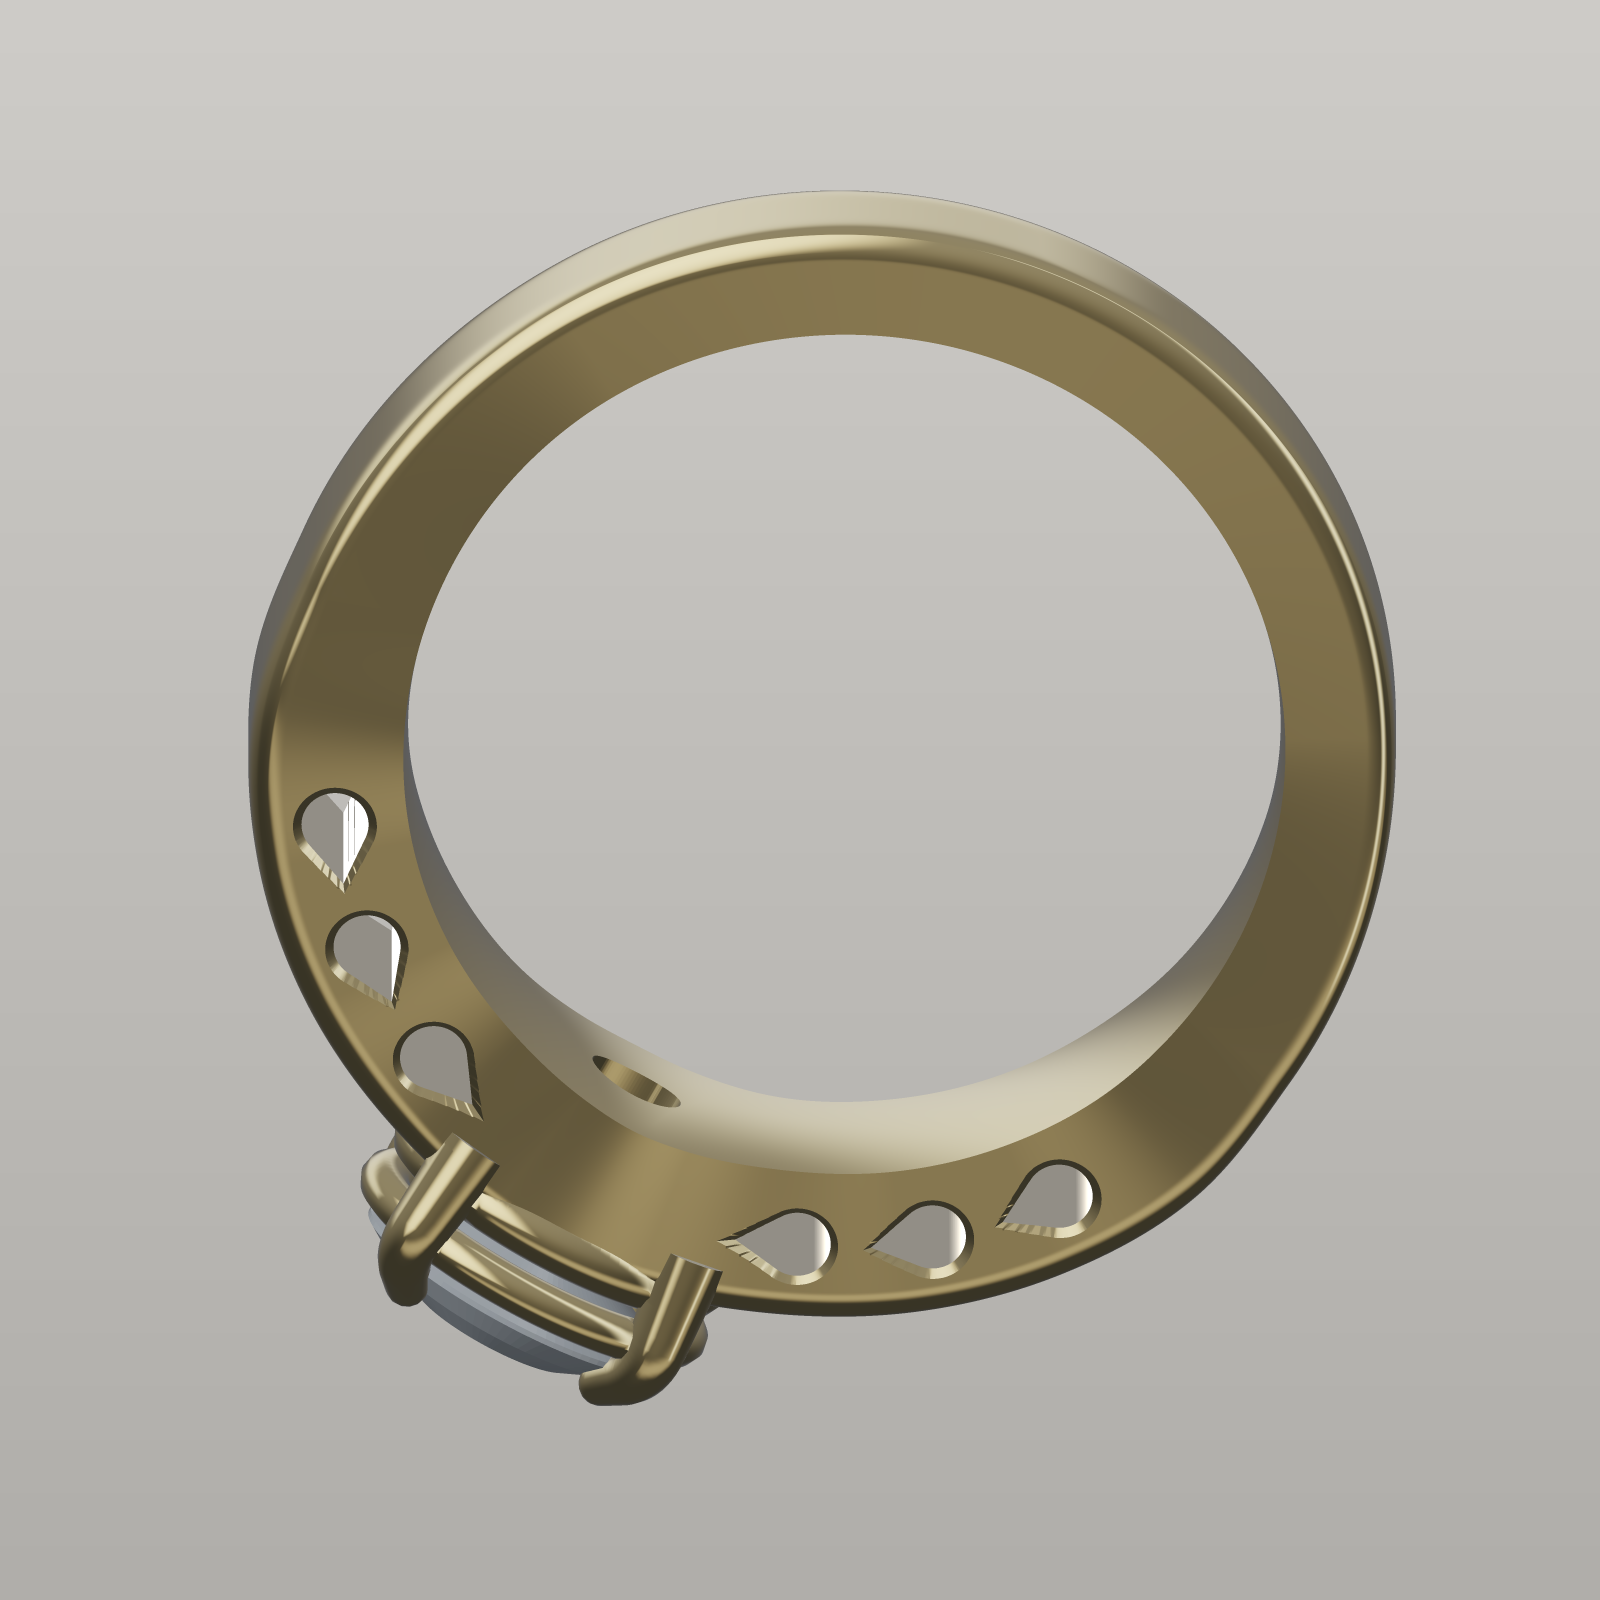
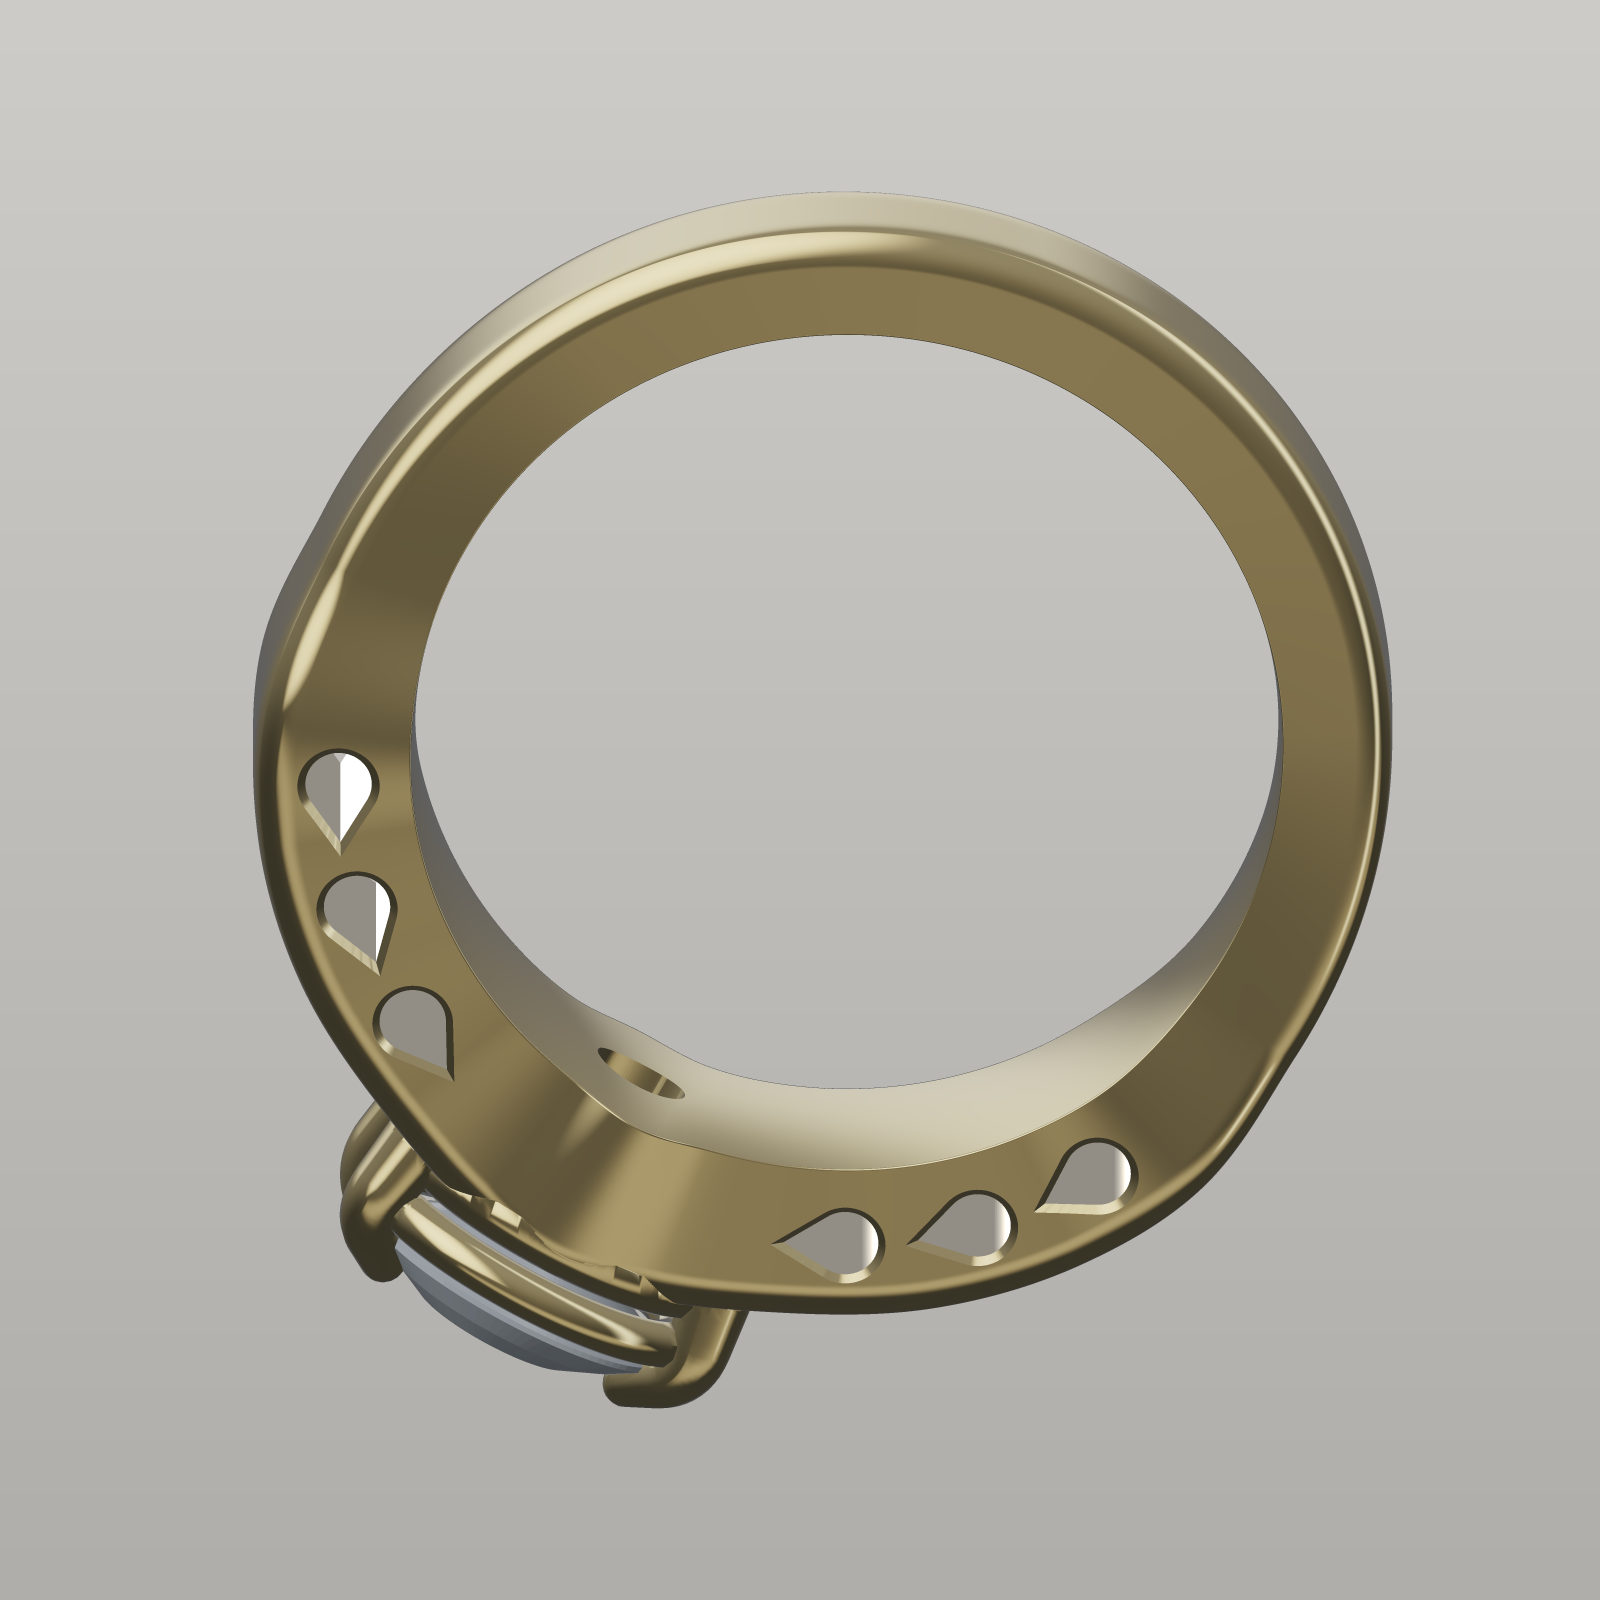
Fenestra round 2: flared collar shoulders, paired-claw basket head, framed close-ups
Merged master (crisp-edge renders). The swell now reaches 1.88 x at the head with
a raised collar the basket is set into; windows at 63/48/33 deg on square side
faces; the basket head and seat bur are bench work and the investment floor is
measured on the poured shank; timeline camera shows the bur's pilot.

Claude-Session: https://claude.ai/code/session_01SAH8Q8Lnp1vP1aWijJTkAH

diff --git a/crates/ringdesign-core/examples/officina_fenestra.rs b/crates/ringdesign-core/examples/officina_fenestra.rs
@@ -21,7 +21,7 @@ use ringdesign_core::{
     stl,
 };
 use serde_json::json;
-use std::f64::consts::{FRAC_PI_2, PI};
+use std::f64::consts::PI;
 use std::path::{Path, PathBuf};
 
 const BORE_MM: f64 = 18.2;
@@ -31,13 +31,13 @@ const THICKNESS_MM: f64 = 2.4;
 /// under the basket, then one steady width down the shoulders, so every window in the array meets square side faces at the
 /// same height as the first, and narrowing to the band's own at the sides; the thickness stands tall down the shoulders, where
 /// the windows go, and falls back to the palm.
-const SWELL: &[(f64, f64, f64)] = &[(90.0, 1.66, 1.50), (82.0, 1.56, 1.49), (70.0, 1.38, 1.47), (55.0, 1.38, 1.45), (40.0, 1.38, 1.42), (25.0, 1.38, 1.36), (10.0, 1.25, 1.18), (-30.0, 1.0, 1.0)];
+const SWELL: &[(f64, f64, f64)] = &[(90.0, 1.88, 1.72), (80.0, 1.6, 1.64), (68.0, 1.56, 1.52), (53.0, 1.56, 1.50), (38.0, 1.56, 1.46), (24.0, 1.54, 1.38), (8.0, 1.2, 1.14), (-30.0, 1.0, 1.0)];
 const ALLOY: &str = "Gold 18k";
 /// The stone: an oval 7 × 5 laid along the ring.
 const STONE_L_MM: f64 = 7.0;
 const STONE_W_MM: f64 = 5.0;
 /// The first window's centre, degrees round the ring (90 is the head); the array steps down the shoulder from it.
-const FIRST_WINDOW_DEG: f64 = 68.0;
+const FIRST_WINDOW_DEG: f64 = 63.0;
 /// Windows down each shoulder and the angle they step by.
 const WINDOWS: u32 = 3;
 const WINDOW_STEP_DEG: f64 = 15.0;
@@ -47,10 +47,13 @@ const WINDOW_W_MM: f64 = 1.4;
 const WINDOW_CHAMFER_MM: f64 = 0.15;
 /// Which way the drop's point turns in the window's plane, degrees: 180 points it up the shoulder at the head.
 const WINDOW_TURN_DEG: f64 = 180.0;
-/// How far the stone sits below the basket's own stand-off, its pavilion down in the seat the bur cuts, mm.
-const STONE_SINK_MM: f64 = 0.6;
+/// How far the stone sits below the basket's own stand-off, so the base rail is sunk into the collar and the claws rise out of
+/// metal, mm.
+const STONE_SINK_MM: f64 = 0.9;
+/// The band's edge round, which rolls the light off every arris, mm.
+const EDGE_ROUND_MM: f64 = 0.45;
 /// The basket's claw and rail wire, mm.
-const WIRE_MM: f64 = 1.3;
+const WIRE_MM: f64 = 1.4;
 /// Least metal the investment fills, mm.
 const MIN_SECTION_MM: f64 = 0.8;
 
@@ -95,7 +98,7 @@ fn band() -> RingDesign {
     d.profile.width_mm = WIDTH_MM;
     d.profile.thickness_mm = THICKNESS_MM;
     d.profile.flatten_sides();
-    d.profile.edge_round_mm = 0.3;
+    d.profile.edge_round_mm = EDGE_ROUND_MM;
     d.profile.comfort_fit_mm = 0.1;
     d.shank.kind = ShankKind::Keyframes;
     d.shank.amount = 1.0;
@@ -133,7 +136,11 @@ fn author() -> Result<RingDesign> {
     let g = gem();
     let at = Placement::ring(90.0, builders::stand_off_mm("basket", g) - STONE_SINK_MM);
     doc.append(named(builders::stone_feature(2, g, at), "Oval 7 × 5, laid along the ring"))?;
-    doc.append(builders::feature_on(3, "Basket: four claws tied by two rails", builders::BASKET, 2, json!({"prongs": 4, "rails": 2, "wire_mm": WIRE_MM})))?;
+    let mut basket = builders::feature_on(3, "Basket head: four claws paired at the ends, two rails, set into the collar", builders::BASKET, 2, json!({"prongs": 4, "rails": 2, "wire_mm": WIRE_MM, "grouping": "Jaws"}));
+    // A made basket head, soldered to the cast shank at the bench and set there: its claws are notched for the girdle, finer
+    // than the investment's section, so it is not poured with the shank.
+    basket.component.stage = cad::Stage::Bench;
+    doc.append(basket)?;
     // The seat is cut with a bur at the bench once the ring is cast, as it is when the stone is set: it notches the claws and
     // opens the pilot to the finger, so the pour fills the claws whole.
     let mut bur = builders::feature_on(4, "Seat bur, through to the finger, cut at the bench", builders::BUR, 2, json!({"through": true}));
@@ -202,12 +209,18 @@ fn solid_of(m: &mesh::Mesh) -> csg::Solid {
 /// Views: yaw about the finger axis, pitch from looking along the finger (0) to down onto the head (pi/2).
 const VIEWS: &[(&str, f64, f64)] = &[
     ("hero", -0.7, 0.5),
-    ("face", 0.0, FRAC_PI_2),
+    ("face", 0.0, FACE_PITCH),
     ("palm", PI, 1.05),
     ("side", 0.0, 0.0),
     ("shoulder", 0.0, 0.35),
     ("reverse", PI - 0.5, 0.35),
 ];
+
+/// The face view, tipped a little off square so the near side face's windows show beside the head.
+const FACE_PITCH: f64 = 1.25;
+/// The timeline's camera: three-quarters from a little under the band, so it sees the seat bur's pilot in the bore as well as
+/// the windows in the side face.
+const TIMELINE_VIEW: (f64, f64) = (-0.75, -0.32);
 
 /// The stones close-up: the head and the top windows from a three-quarter view.
 const STONES_VIEW: (f64, f64) = (-0.45, 0.7);
@@ -227,46 +240,22 @@ fn side_by_side(path: &Path, left: &[u8], right: &[u8], edge: usize) -> Result<(
     Ok(())
 }
 
-/// `m` with every corner whose smooth normal leans more than 35° off its face shaded by the face's own normal instead, so
-/// a cut's edge renders as the crisp arris it is rather than a saw of blended normals.
-fn crisp(m: &mesh::Mesh) -> mesh::Mesh {
-    let mut out = m.clone();
-    let have: std::collections::HashMap<u32, [mesh::Vec3; 3]> = m.corner_normals.iter().copied().collect();
-    let mut corners = Vec::new();
-    for (i, f) in m.faces.iter().enumerate() {
-        let Some((a, b, c)) = m.triangle(f) else { continue };
-        let (u, v) = ([b[0] - a[0], b[1] - a[1], b[2] - a[2]], [c[0] - a[0], c[1] - a[1], c[2] - a[2]]);
-        let n = [u[1] * v[2] - u[2] * v[1], u[2] * v[0] - u[0] * v[2], u[0] * v[1] - u[1] * v[0]];
-        let l = (n[0] * n[0] + n[1] * n[1] + n[2] * n[2]).sqrt();
-        if l < 1e-12 {
-            continue;
-        }
-        let fn_ = mesh::Vec3((n[0] / l) as f32, (n[1] / l) as f32, (n[2] / l) as f32);
-        let mut cn = have.get(&(i as u32)).copied().unwrap_or_else(|| f.map(|k| m.normals[k as usize]));
-        let mut changed = false;
-        for c in cn.iter_mut() {
-            let d = c.0 * fn_.0 + c.1 * fn_.1 + c.2 * fn_.2;
-            if d < 0.819 {
-                *c = fn_;
-                changed = true;
-            }
-        }
-        if changed || have.contains_key(&(i as u32)) {
-            corners.push((i as u32, cn));
-        }
-    }
-    out.corner_normals = corners;
-    out
-}
-
 /// The renderer's empty background, which [`shot`] replaces with the studio's daylight backdrop.
 const VOID: u8 = 18;
 
 /// A supersampled frame on a light backdrop, so the windows show daylight through them: the parts drawn at `ss` times the
 /// size, every untouched pixel given the backdrop's soft top-to-bottom fall, then box-filtered down.
 fn shot(parts: &[render::Part], yaw: f64, pitch: f64, w: usize, h: usize, ss: usize) -> Vec<u8> {
+    shot_framed(parts, yaw, pitch, None, w, h, ss)
+}
+
+/// [`shot`] framed on a point, the whole ring drawn.
+fn shot_framed(parts: &[render::Part], yaw: f64, pitch: f64, framing: Option<render::Framing>, w: usize, h: usize, ss: usize) -> Vec<u8> {
     let (bw, bh) = (w * ss, h * ss);
-    let mut big = render::render_parts_ss(parts, yaw, pitch, bw, bh, 1);
+    let mut big = match framing {
+        Some(f) => render::render_parts_framed(parts, yaw, pitch, f, bw, bh, 1),
+        None => render::render_parts_ss(parts, yaw, pitch, bw, bh, 1),
+    };
     for y in 0..bh {
         let t = y as f64 / (bh - 1).max(1) as f64;
         let grey = [206.0 - 30.0 * t, 204.0 - 30.0 * t, 200.0 - 30.0 * t];
@@ -335,12 +324,12 @@ fn timeline(out: &Path, d: &RingDesign, lib: &AlphaLibrary) -> Result<()> {
     let rows = doc.features.len().div_ceil(cols);
     let (w, h) = (tile * cols, tile * rows);
     let mut sheet = vec![200u8; w * h * 3];
-    let (yaw, pitch) = view("hero");
+    let (yaw, pitch) = TIMELINE_VIEW;
     for (k, f) in doc.features.iter().enumerate() {
         let mut step = d.clone();
         step.cad.as_mut().unwrap().through = Some(f.id);
         let fin = render::finished(&step, lib, draft_params())?;
-        let (bright, dark) = window_walls(&crisp(&fin.metal));
+        let (bright, dark) = window_walls(&fin.metal);
         let img = shot(&dressed(&bright, &dark, &fin), yaw, pitch, tile, tile, 2);
         let (cx, cy) = (k % cols * tile, k / cols * tile);
         for y in 0..tile {
@@ -394,7 +383,7 @@ fn dressed<'a>(bright: &'a mesh::Mesh, dark: &'a mesh::Mesh, fin: &'a render::Fi
 }
 
 fn renders(out: &Path, lib: &AlphaLibrary, fin: &render::Finished, edge: usize) -> Result<()> {
-    let (bright, dark) = window_walls(&crisp(&fin.metal));
+    let (bright, dark) = window_walls(&fin.metal);
     if std::env::var("FENESTRA_DEBUG").is_ok() {
         let parted = fin.metal.origin.iter().filter(|&&o| o >= mesh::SOLID_VERTEX).count();
         println!("    window walls: {} faces of {}; {} of {} vertices from parts", dark.faces.len(), fin.metal.faces.len(), parted, fin.metal.origin.len());
@@ -414,27 +403,16 @@ fn renders(out: &Path, lib: &AlphaLibrary, fin: &render::Finished, edge: usize) 
         save(&out.join(format!("{name}-300.png")), &parts, yaw, pitch, 300)?;
     }
     // Stones: the head and the first windows, framed on the metal within 35° of the top.
-    // Stones: the whole ring drawn at 2.4 times the size, then cut to the frame round the stone, which a red stand-in finds.
-    let big = (edge as f64 * 2.4) as usize;
-    let img = shot(&parts, STONES_VIEW.0, STONES_VIEW.1, big, big, 2);
-    let mut marked = vec![render::Part::metal(&bright, render::GOLD), backlit(&dark)];
-    marked.extend(fin.stones.iter().map(|(m, _)| render::Part::tinted_stone(m, [1.0, 0.0, 0.0])));
-    let mask = render::render_parts_ss(&marked, STONES_VIEW.0, STONES_VIEW.1, big, big, 1);
-    let (mut sx, mut sy, mut n) = (0usize, 0usize, 0usize);
-    for y in 0..big {
-        for x in 0..big {
-            let k = (y * big + x) * 3;
-            if mask[k] > 120 && mask[k + 1] < 60 && mask[k + 2] < 60 {
-                (sx, sy, n) = (sx + x, sy + y, n + 1);
-            }
+    // Stones: the whole ring framed on the stone, so the head and the top windows fill the picture.
+    let (mut c, mut n) = ([0.0f64; 3], 0usize);
+    for (m, _) in &fin.stones {
+        for v in &m.vertices {
+            c = [c[0] + v.0 as f64, c[1] + v.1 as f64, c[2] + v.2 as f64];
+            n += 1;
         }
     }
-    let (cx, cy) = if n > 0 { (sx / n, sy / n) } else { (big / 2, big / 2) };
-    let (x0, y0) = (cx.saturating_sub(edge / 2).min(big - edge), (cy + edge / 10).saturating_sub(edge / 2).min(big - edge));
-    let mut close = vec![0u8; edge * edge * 3];
-    for y in 0..edge {
-        close[y * edge * 3..(y + 1) * edge * 3].copy_from_slice(&img[((y0 + y) * big + x0) * 3..((y0 + y) * big + x0 + edge) * 3]);
-    }
+    let centre = if n > 0 { c.map(|x| x / n as f64) } else { [0.0, 13.0, 0.0] };
+    let close = shot_framed(&parts, STONES_VIEW.0, STONES_VIEW.1, Some(render::Framing::new([centre[0], centre[1] - 1.5, centre[2]], 6.5)), edge, edge, 3);
     image::save_buffer(out.join("stones.png"), &close, edge as u32, edge as u32, image::ColorType::Rgb8)?;
     let bare = mesh::try_build(&band(), lib, draft_params())?;
     let (yaw, pitch) = view("hero");
@@ -553,8 +531,22 @@ fn main() -> Result<()> {
     let previewed = ringdesign_core::gems::built_meshes(&d, &lib, &built).len();
     // Wall thickness is screened on a build light enough for the measure.
     let coarse = BuildParams { theta_steps: 384, profile_steps: 160, ..params };
-    // The section floor is the investment's: it is measured on the cast pattern, the bench's seat cut left out.
-    let thin_mesh = mesh::try_build_pattern(&d, &lib, coarse)?.mesh;
+    // The section floor is the investment's: it is measured on what is poured, the shank with its windows. The basket head and
+    // the seat are the bench's, soldered and cut after the pour, so they are suppressed here and their own sections recorded.
+    let mut poured = d.clone();
+    for f in poured.cad.as_mut().unwrap().features.iter_mut() {
+        if f.component.stage == cad::Stage::Bench {
+            f.enabled = false;
+        }
+    }
+    let thin_mesh = mesh::try_build_pattern(&poured, &lib, coarse)?.mesh;
+    let head_thin = built
+        .parts
+        .evaluated
+        .iter()
+        .flat_map(|e| e.components.iter())
+        .find(|c| c.id == 3)
+        .map(|c| cad::measure::thickness(&c.mesh, MIN_SECTION_MM));
     let finished_thin = cad::measure::thickness(&mesh::try_build(&d, &lib, coarse)?.mesh, MIN_SECTION_MM);
     let thickness = cad::measure::thickness(&thin_mesh, MIN_SECTION_MM);
     println!(
@@ -635,7 +627,8 @@ fn main() -> Result<()> {
         "field_notes": field.notes,
         "investment_min_section_mm": d.draft.min_section_mm,
         "thickness_finished_informational": {"rays": finished_thin.rays, "sampled_min_mm": finished_thin.sampled_min_mm, "below_limit": finished_thin.below_limit, "note": "The finished ring after the bench's seat bur, which notches the claws for the girdle and opens the pilot; not the pour."},
-        "thickness": {"mesh": "casting pattern", "build": [coarse.theta_steps, coarse.profile_steps], "faces": thin_mesh.faces.len(), "limit_mm": thickness.limit_mm, "rays": thickness.rays, "sampled_min_mm": thickness.sampled_min_mm, "below_limit": thickness.below_limit, "unresolved": thickness.unresolved, "note": thickness.note},
+        "head_thickness_informational": head_thin.as_ref().map(|t| json!({"rays": t.rays, "sampled_min_mm": t.sampled_min_mm, "below_limit": t.below_limit, "note": "The made basket head alone: each claw notched by the stone's envelope for the girdle, set at the bench."})),
+        "thickness": {"mesh": "the poured shank: the casting pattern with the bench's basket head and seat bur suppressed", "build": [coarse.theta_steps, coarse.profile_steps], "faces": thin_mesh.faces.len(), "limit_mm": thickness.limit_mm, "rays": thickness.rays, "sampled_min_mm": thickness.sampled_min_mm, "below_limit": thickness.below_limit, "unresolved": thickness.unresolved, "note": thickness.note},
         "cut_lands": lands.iter().map(|f| format!("{}: {}", f.label, f.message)).collect::<Vec<_>>(),
         "dfm_findings": findings.iter().map(|f| format!("{}: {}", f.label, f.message)).collect::<Vec<_>>(),
         "stones_reported": stone_count,
@@ -671,7 +664,7 @@ fn main() -> Result<()> {
     report["size"] = json!(d.size.display());
     report["bore_mm"] = json!(built.report.inner_diameter_mm);
     report["band"] = json!({"style": "Flat", "width_mm": WIDTH_MM, "thickness_mm": THICKNESS_MM, "shank": "Keyframes", "swell_keys": SWELL});
-    report["stone"] = json!({"cut": "Oval", "l_mm": STONE_L_MM, "w_mm": STONE_W_MM, "spin_deg": 0.0});
+    report["stone"] = json!({"cut": "Oval", "l_mm": STONE_L_MM, "w_mm": STONE_W_MM, "spin_deg": 0.0, "spin_note": "spin 0 lays a stone's length round the ring (cad.rs stone_frame turns the seat frame a quarter); the section's spin 90 would lay the oval across the finger."});
     report["windows"] = json!({"per_shoulder": WINDOWS, "first_deg": FIRST_WINDOW_DEG, "step_deg": WINDOW_STEP_DEG, "length_mm": WINDOW_L_MM, "width_mm": WINDOW_W_MM, "chamfer_mm": WINDOW_CHAMFER_MM});
     report["grams_gold_18k"] = json!(grams);
     report["design_bytes"] = json!(design_bytes);
